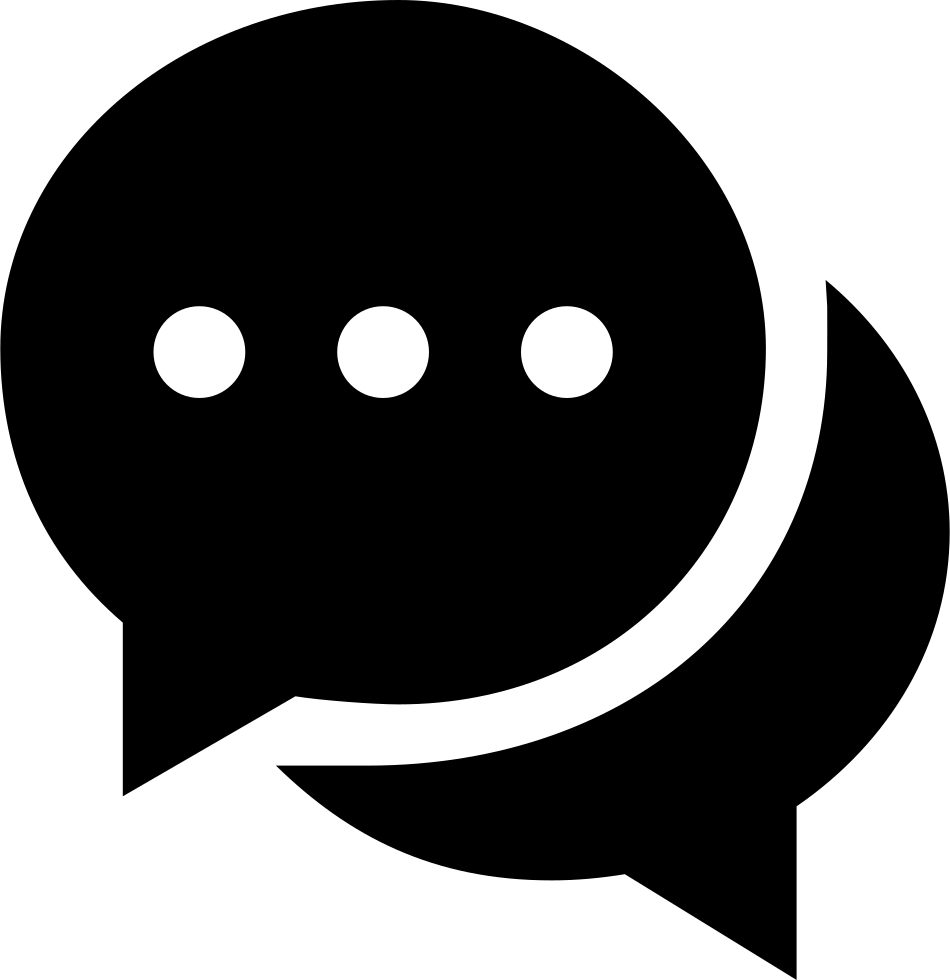
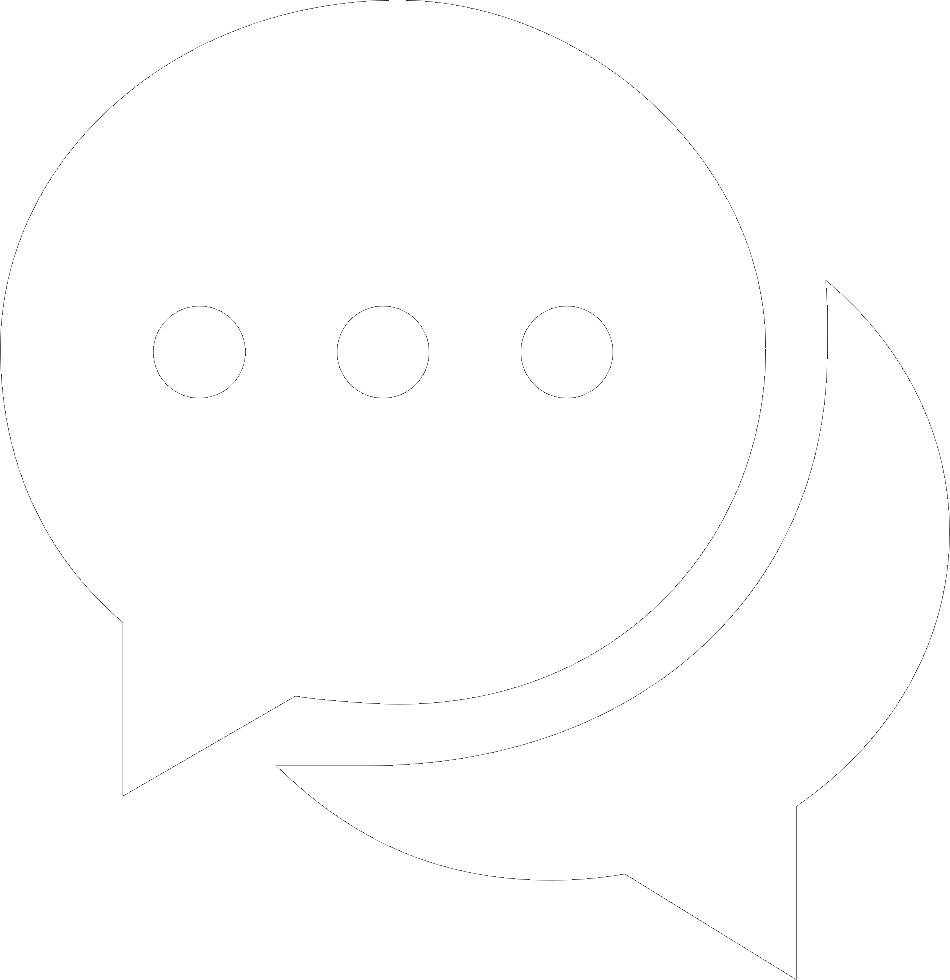
Added All Shortcut Buttons

diff --git a/src/components/MyShortcuts.vue b/src/components/MyShortcuts.vue
@@ -1,0 +1,112 @@
+<template>
+    <div class="my_shortcuts_wrapper" v-if="page_on_scroll">
+        <div class="button_wrapper apply_now_button">
+            <img src="../assets/application.png" alt="Application">
+        </div>
+
+        <div class="button_wrapper calendar_button">
+            <img src="../assets/calendar.png" alt="Calendar">
+        </div>
+
+        <div class="button_wrapper social_media_button" @click="open_social_media_list">
+            <img src="../assets/link.png" alt="Social Media Links">
+        </div>
+
+        <div class="button_wrapper chat_now_button">
+            <img src="../assets/chat_bubbles.png" alt="Chat Bubbles">
+        </div>
+
+        <div class="social_media_list_wrapper" v-if="show_social_media_list">
+            <i class="lab la-instagram"></i>
+            <i class="lab la-facebook-f"></i>
+            <i class="lab la-whatsapp"></i>
+            <i class="lab la-youtube"></i>
+        </div>
+    </div>
+</template>
+
+<script>
+export default {
+    mounted() {
+        window.addEventListener('scroll', this.handle_page_on_scroll);
+    },
+    data() {
+        return {
+            page_on_scroll: false,
+            show_social_media_list: false
+        }
+    },
+    methods: {
+        handle_page_on_scroll() {
+            let last_scroll = 0;
+            let current_scroll = document.documentElement.scrollTop || document.body.scrollTop;
+
+            //! Scroll Down
+            if ( current_scroll > 0 && last_scroll <= current_scroll ) {
+                last_scroll = current_scroll;
+                this.page_on_scroll = true;
+            }
+            //! Scroll Up
+            else {
+                last_scroll = current_scroll;
+                this.page_on_scroll = false;
+            }
+
+            this.show_social_media_list = false;
+        },
+        open_social_media_list() {
+            this.show_social_media_list = !this.show_social_media_list;
+        }
+    }
+}
+</script>
+
+<style scoped>
+.button_wrapper {
+    position: fixed;
+    bottom: 5%;
+    background-color: var(--main-red);
+    border-radius: 50%;
+    padding: 10px 13px;
+    cursor: pointer;
+    box-shadow: 0px 8px 16px 0px rgb(0 0 0 / 20%);
+}
+
+.button_wrapper > img {
+    width: 30px;
+}
+
+.apply_now_button {
+    left: 36%;
+}
+
+.calendar_button {
+    left: 44%;
+}
+
+.social_media_button {
+    left: 51.5%;
+}
+
+.chat_now_button {
+    left: 59%;
+}
+
+.social_media_list_wrapper {
+    position: fixed;
+    top: 320px;
+    left: 50.8%;
+    display: flex;
+    flex-direction: column;
+    border: 1px solid var(--main-grey);
+    background-color: white;
+    border-radius: 25px;
+}
+
+.social_media_list_wrapper > i {
+    font-size: 50px;
+    margin: 10px;
+    color: var(--main-red);
+    cursor: pointer;
+}
+</style>

diff --git a/src/views/Home.vue b/src/views/Home.vue
@@ -5,7 +5,7 @@
         <MyDescription></MyDescription>
         <MyEventsCalendar></MyEventsCalendar>
         <MyTestimonial></MyTestimonial>
-        <MySocialContact></MySocialContact>
+        <MyShortcuts></MyShortcuts>
         
         <div class="office_hours_wrapper">
             <img src="../assets/office_hours.png" alt="Office Hours">
@@ -23,7 +23,7 @@ import MyBanner from "../components/MyBanner.vue"
 import MyDescription from "../components/MyDescription.vue"
 import MyEventsCalendar from "../components/MyEventsCalendar.vue"
 import MyTestimonial from "../components/MyTestimonials.vue"
-import MySocialContact from "../components/MySocialContact.vue"
+import MyShortcuts from "../components/MyShortcuts.vue"
 
 export default {
     components: {
@@ -32,14 +32,15 @@ export default {
         MyDescription,
         MyEventsCalendar,
         MyTestimonial,
-        MySocialContact
+        MyShortcuts
     }
 }
 </script>
 
 <style scoped>
 .home_page_wrapper {
-    margin: 0 20%;
+    margin: 0 20% 60px;
+    position: relative;
 }
 
 .contact_us_wrapper > img,

diff --git a/src/App.vue b/src/App.vue
@@ -18,7 +18,7 @@
 
 @media only screen and (max-width: 1280px) {
     .home_page_wrapper {
-        margin: 0 5% !important;
+        margin: 0 5% 60px !important;
     }
     .normal_button_style {
         font-size: 17px !important;
